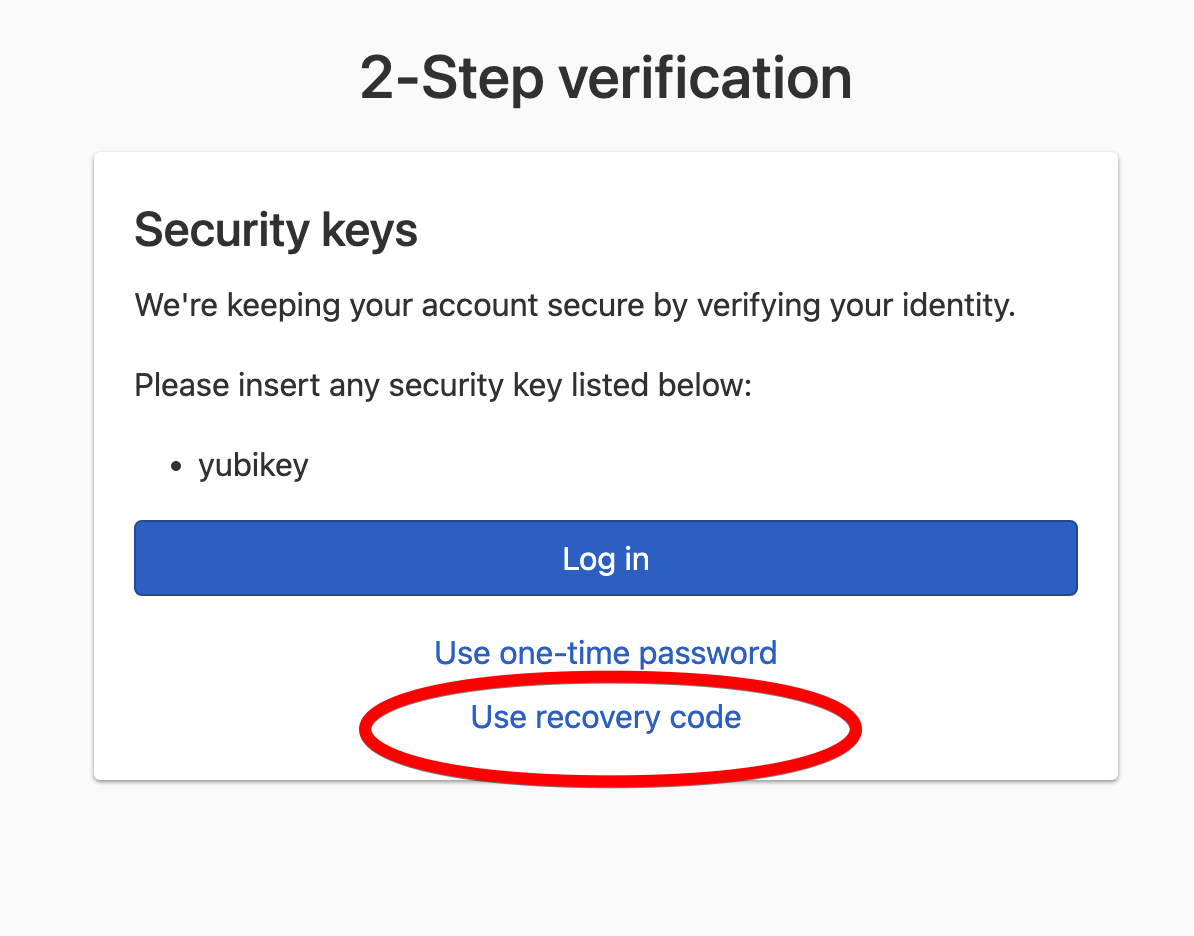
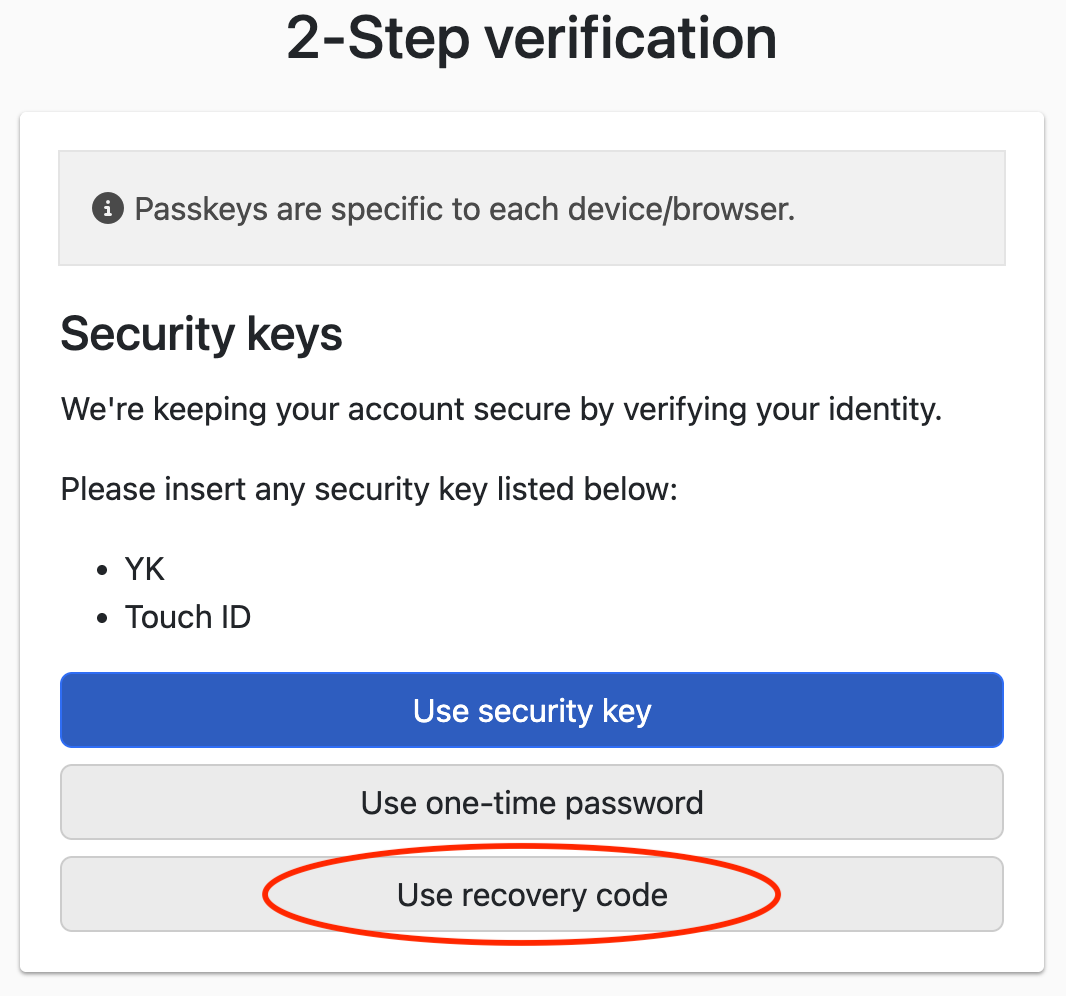
Update MFA login and setup article and screenshots (#1973)
* change: Update Security Key setup docs & screenshots

* change: Update Autenticator app setup docs & screenshots

* change: Add links to recovery code section

* change: Update & rename MFA login screenshots

I took the opportunity and consolidated towards the user-prefixed image names
because:
- The recovery code one had the prefix
- We seem to have used this prefix for MFA related things, and it is useful to
  have them named in the same way since these are all used in the same article.

* change: Add note about recovery code reminders

Pull request: Update MFA login and setup article and screenshots
Fixes #1972

## Summary

Updates the MFA article (https://support.dnsimple.com/articles/multi-factor-authentication/) so it contains the recent changes made to UI/UX, updating the corresponding screenshots.

I also took the opportunity to rename some screenshots and consolidate the MFA-related-screenshot naming.

## Files changed

The key file in this PR is:
- `content/articles/multi-factor-authentication.md`

The rest that was changed were screenshots referenced in that article.

## Checklist

- [x] Branch created from up-to-date `main`
- [x] Only files related to this task are included
- [x] Frontmatter has `title`, `excerpt`, `meta`, and `categories`
- [x] Opening paragraph directly answers the article's core question (SEO/GEO)
- [x] Cross-links added on first mention of related concepts
- [x] Existing articles updated to link back (if applicable)
- [x] No smart/curly quotes or special characters from macOS
- [x] Callouts use correct types: `[!NOTE]`, `[!TIP]`, or `[!WARNING]`
- [x] Tested locally with `rake run`

## Review

- [x] Second expert tagged for feature/product knowledge
- [x] Customer Success tagged (required for substantial updates)

diff --git a/content/articles/multi-factor-authentication.md b/content/articles/multi-factor-authentication.md
@@ -41,22 +41,18 @@ When you enable MFA for your user profile, you'll be logged out of all currently
     ![Enable multi-factor authentication with one-time password](/files/user-mfa-enable-mfa-with-authenticator.png)
 
 1. Scan the barcode using a [one-time password authenticator app](#authenticator). You can also manually enter the secret code by clicking **Can't scan the barcode?** and typing the code into your authenticator.
-    ![Multi-factor barcode](/files/user-mfa-barcode.png)
+    ![Multi-factor barcode](/files/user-mfa-enable-mfa-with-authenticator-barcode.png)
 
 1. Using the one-time password authenticator app, generate a verification code.
 
 1. Enter the 6-digit verification code into the field, and click **Continue** to confirm. If the verification code is correct, you'll be redirected to the next step. Otherwise, you'll be asked to enter a new verification code.
 
-1. The setup process ends here if you have an alternative MFA method already set up.
+1. Copy your [recovery code](#recovery) by clicking **Copy to clipboard**. Store your recovery code in a safe place, like a password or secret management application. You should also click **Download recovery code (PDF)** to download a PDF file with the necessary information to recover your account should you lose access to all your multi-factor authentication devices.
 
-> [!NOTE]
-> If this is the only multi-factor authentication method you have set up, a [recovery code](#recovery-code) will be generated, and you'll need to confirm the recovery code. **Copy and store the [recovery code](#recovery-code) in a safe place.**
+    Fill in the form with the last 4 characters of your recovery code, and click **Continue** to complete the setup of your authenticator app.
 
-    ![Multi-factor recovery code](/files/user-mfa-authenticator-recovery-code.png)
+    ![Multi-factor confirm recovery code](/files/user-mfa-enable-mfa-with-authenticator-confirm-recovery-code.png)
 
-
-1. Follow the instructions to complete the setup and activate multi-factor authentication via one-time password.
-    ![Multi-factor recovery code](/files/user-mfa-authenticator-confirm-recovery-code.png)
 </div>
 
 
@@ -71,18 +67,14 @@ When you enable MFA for your user profile, you'll be logged out of all currently
     ![Enable security key](/files/user-mfa-enable-mfa-with-security-key.png)
 
 1. Enter a nickname to help you identify the security key you're registering.
+    ![Security key nickname with recovery code](/files/user-mfa-enable-security-key-nickname.png)
 
-> [!NOTE]
-> ![Security key nickname](/files/user-mfa-enable-security-key-nickname.png)
->       If this is the first multi-factor authentication method you're setting up, the screen (shown below) will look slightly different, because a [recovery code](#recovery-code) will be generated, and you'll need to confirm it. **Copy and store the [recovery code](#recovery-code) in a safe place.**
+1. Click **Continue** — you should see a prompt to choose the type of security key you want to activate. The prompt will look different depending on your platform and browser. Select the security key type, and activate it to complete the security key setup process.
 
-    ![Security key nickname with recovery code](/files/user-mfa-enable-security-key-nickname-with-recovery-code.png)
+1. Copy your [recovery code](#recovery) by clicking **Copy to clipboard**. Store your recovery code in a safe place, like a password or secret management application. You should also click **Download recovery code (PDF)** to download a PDF file with the necessary information to recover your account should you lose access to all your multi-factor authentication devices.
 
-1. Click **Register Key** — you'll see this if you have an alternative multi-factor authentication method already set up. You should see a prompt to choose the type of security key you want to activate. The prompt will look different depending on your platform and browser. Select the security key type, and activate it to complete the security key setup process.
+    Fill in the form with the last 4 characters of your recovery code, and click **Continue** to complete your security key registration.
 
-    However, if this is the only multi-factor authentication method you have set up, you'll see a **Continue** button instead of **Register Key**. Click on **Continue** to confirm the recovery code, then you can complete the security key setup process.
-
-1. Fill in the form with the recovery code, and click **Confirm recovery and register key**. You should see a prompt to choose the type of security key you want to activate. The prompt will look different depending on your platform and browser. Select the security key type, and activate it.
     ![Multi-factor confirm recovery code](/files/user-mfa-enable-security-key-confirm-recovery-code.png)
 
 > [!NOTE]
@@ -130,10 +122,10 @@ When multi-factor protection is enabled, you must perform a second verification 
 1. If the credentials are correct, you'll see a 2-Step Verification window. This may look different if you also have a security key enabled.
 
     If you have a security key enabled, it will be the default authentication method displayed. Click **Use one-time password** to switch to using a one-time password for the second verification step.
-    ![Multi-factor authentication](/files/mfa-login-use-one-time-password.png)
+    ![Multi-factor authentication](/files/user-mfa-login-use-one-time-password.png)
 
     If you don't have security keys enabled, you'll see the following 2-Step Verification window immediately:
-    ![Multi-factor authentication](/files/mfa-login-authenticator.png)
+    ![Multi-factor authentication](/files/user-mfa-login-authenticator.png)
 
 1. Use your one-time password authenticator app to generate a verification code, paste the verification code into the form, and submit it to complete the 2-step login verification process.
 
@@ -148,7 +140,7 @@ When multi-factor protection is enabled, you must perform a second verification 
 1. Log in to DNSimple with your username and password.
 
 1. If the credentials are correct, you'll see a 2-Step Verification window.
-  ![Multi-factor authentication](/files/mfa-login-security-key.png)
+  ![Multi-factor authentication](/files/user-mfa-login-security-key.png)
 
 1. Click **Log in**, select the type of security key you'll be activating, and activate the security key.
 
@@ -159,7 +151,10 @@ When multi-factor protection is enabled, you must perform a second verification 
 When you enable your first MFA method, a recovery code is created as a safeguard. You'll need this recovery code to disable MFA if you can't generate a one-time password with your authenticator app, activate your registered security key, or disable an MFA method. For example, because you lost the security key or the device where the authenticator was installed. **Save this recovery code in a secure, memorable place**.
 
 > [!WARNING]
-> The recovery code **is the only way to recover access to your account** if you can't generate a one-time password with an authenticator app or activate a security key for completing the 2-step verification process. Store the recovery code in a secure place. **We cannot disable multi-factor authentication without this recovery code.**
+> The recovery code **is the only way to recover access to your account** if you can't generate a one-time password with an authenticator app or activate a security key for completing the 2-step verification process. Store the recovery code in a secure place. **We cannot disable multi-factor authentication without this recovery code**.
+
+> [!NOTE]
+> To help you keep your recovery code accessible, we will periodically ask you to confirm that you still have it saved. Twice a year, you'll see a prompt to verify you have access to your recovery code, along with the option to save a copy. We recommend taking a moment to review where it's stored each time this prompt appears.
 
 When you enter a valid recovery code, multi-factor protection will immediately be disabled. To keep your account protected, you'll need to enable it again by connecting a one-time password authenticator application or security key to your user profile. A new recovery code will be generated.
 